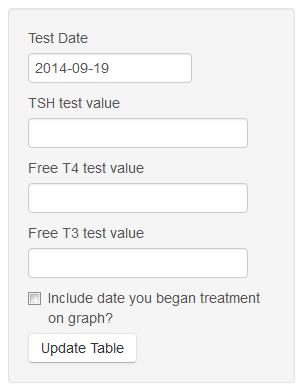
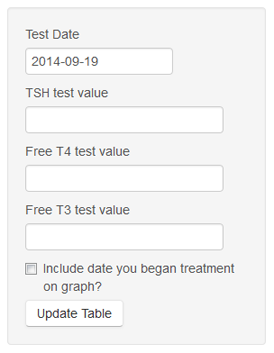
fix for rendering error in firefox

diff --git a/index.html b/index.html
@@ -107,7 +107,7 @@ Oct 14, 2012.</p>
   <article data-timings="">
     
 <div style='float:left;width:25%;'>
-<p><img src=".\assets\img\screen.png" style="width:274px;height:353px"></p>
+<p><img src=".\assets\img\screen.png"></p>
 
 </div>
 <div style='float:right;width:70%;'>

diff --git a/index.md b/index.md
@@ -61,7 +61,7 @@ Oct 14, 2012.
 ### Interface example
 
 *** =left
-<img src=".\assets\img\screen.png" style="width:274px;height:353px">
+<img src=".\assets\img\screen.png">
 
 *** =right
 <img src="assets/fig/plot2.png" title="plot of chunk plot2" alt="plot of chunk plot2" style="display: block; margin: auto;" />
